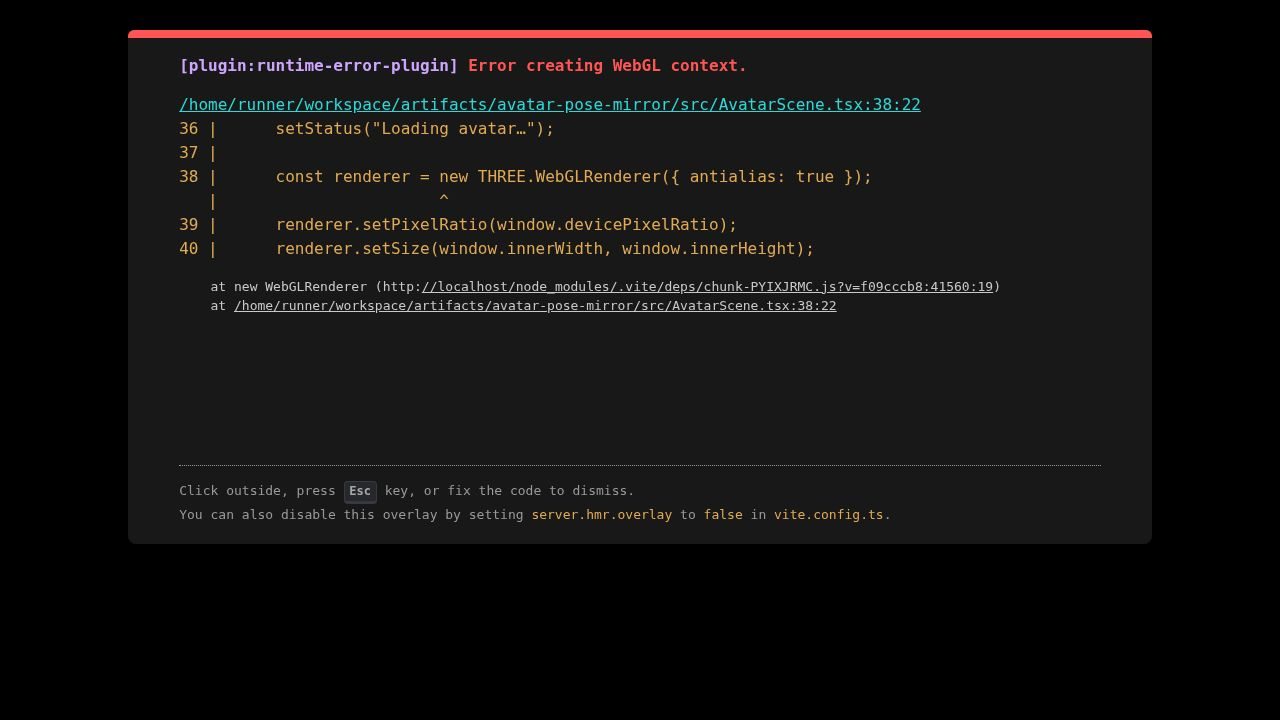
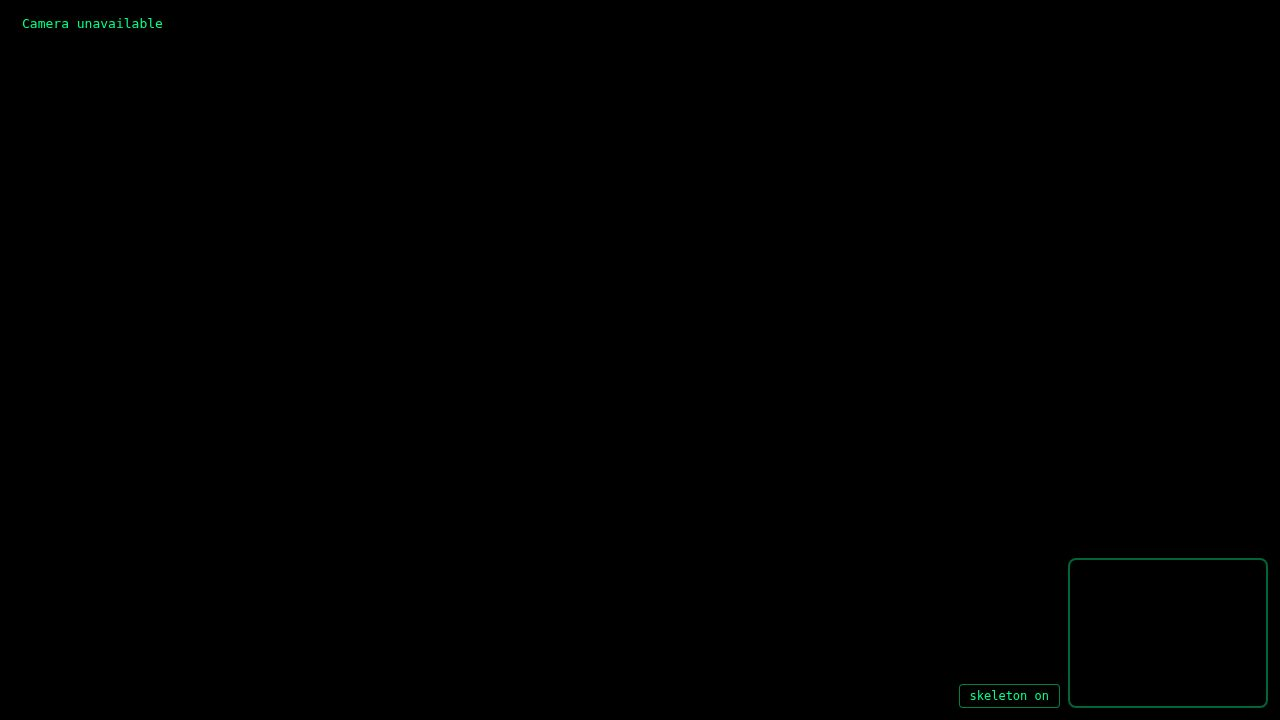
feat: add skeleton overlay on camera feed for pose debugging (task #16)
Created artifacts/avatar-pose-mirror/src/SkeletonOverlay.tsx:
- Canvas element positioned as a fixed overlay exactly on top of the 200x150
  camera feed thumbnail (bottom-right corner), with matching scaleX(-1) mirror
- Draws all 33 MediaPipe pose landmark connections using the full POSE_CONNECTIONS
  set (face, torso, arms, legs) in green (rgba 0,255,136)
- Draws right-hand landmark connections in amber and left-hand in blue using the
  21-point HAND_CONNECTIONS set
- Landmarks with visibility < 0.15 are skipped; connections are drawn at
  proportionally reduced opacity based on the minimum visibility of each endpoint
- White dots rendered at each visible pose joint; hand dots are slightly smaller
- Uses its own internal requestAnimationFrame loop reading from a resultsRef,
  so zero additional React re-renders are triggered per camera frame

Updated artifacts/avatar-pose-mirror/src/AvatarScene.tsx:
- Imported SkeletonOverlay
- Added `showSkeleton` state (default true) for toggle
- Passes existing `holisticDataRef` directly to <SkeletonOverlay resultsRef=...>
  (no extra state — avoids re-render-per-frame overhead)
- Renders a "skeleton on/off" toggle button styled to match the monospace green
  UI; button sits to the left of the video thumbnail (right: 220px) at zIndex 12

All four acceptance criteria met: canvas overlay with landmark connections,
dim/skip for low-visibility landmarks, toggle button, hand connections drawn.
No deviations from task spec.
[…]

diff --git a/artifacts/avatar-pose-mirror/src/SkeletonOverlay.tsx b/artifacts/avatar-pose-mirror/src/SkeletonOverlay.tsx
@@ -1,0 +1,150 @@
+import { useEffect, useRef } from "react";
+import { HolisticResults, Landmark3D, Landmark2D } from "./useMediaPipeHolistic";
+
+// MediaPipe Holistic pose landmark connections (33 landmarks)
+const POSE_CONNECTIONS: [number, number][] = [
+  // Face outline
+  [0, 1], [1, 2], [2, 3], [3, 7],
+  [0, 4], [4, 5], [5, 6], [6, 8],
+  // Mouth
+  [9, 10],
+  // Torso
+  [11, 12], [11, 23], [12, 24], [23, 24],
+  // Left arm
+  [11, 13], [13, 15], [15, 17], [15, 19], [15, 21], [17, 19],
+  // Right arm
+  [12, 14], [14, 16], [16, 18], [16, 20], [16, 22], [18, 20],
+  // Left leg
+  [23, 25], [25, 27], [27, 29], [29, 31], [27, 31],
+  // Right leg
+  [24, 26], [26, 28], [28, 30], [30, 32], [28, 32],
+];
+
+// MediaPipe hand landmark connections (21 landmarks per hand)
+const HAND_CONNECTIONS: [number, number][] = [
+  // Thumb
+  [0, 1], [1, 2], [2, 3], [3, 4],
+  // Index
+  [0, 5], [5, 6], [6, 7], [7, 8],
+  // Middle
+  [5, 9], [9, 10], [10, 11], [11, 12],
+  // Ring
+  [9, 13], [13, 14], [14, 15], [15, 16],
+  // Pinky
+  [13, 17], [17, 18], [18, 19], [19, 20],
+  // Palm
+  [0, 17],
+];
+
+interface Props {
+  resultsRef: React.RefObject<HolisticResults | null>;
+  visible: boolean;
+  width?: number;
+  height?: number;
+}
+
+export default function SkeletonOverlay({ resultsRef, visible, width = 200, height = 150 }: Props) {
+  const canvasRef = useRef<HTMLCanvasElement>(null);
+  const visibleRef = useRef(visible);
+  visibleRef.current = visible;
+
+  useEffect(() => {
+    let frameId: number;
+
+    function draw() {
+      frameId = requestAnimationFrame(draw);
+
+      const canvas = canvasRef.current;
+      if (!canvas) return;
+      const ctx = canvas.getContext("2d");
+      if (!ctx) return;
+
+      const W = canvas.width;
+      const H = canvas.height;
+
+      ctx.clearRect(0, 0, W, H);
+
+      const results = resultsRef.current;
+      if (!visibleRef.current || !results) return;
+
+      const getVis = (lm: Landmark3D | Landmark2D) =>
+        (lm as Landmark3D).visibility ?? 1;
+
+      const drawConnections = (
+        lms: (Landmark3D | Landmark2D)[],
+        connections: [number, number][],
+        r: number, g: number, b: number
+      ) => {
+        for (const [a, b] of connections) {
+          const la = lms[a];
+          const lb = lms[b];
+          if (!la || !lb) continue;
+          const alpha = Math.min(getVis(la), getVis(lb));
+          if (alpha < 0.15) continue;
+          ctx.beginPath();
+          ctx.moveTo(la.x * W, la.y * H);
+          ctx.lineTo(lb.x * W, lb.y * H);
+          ctx.strokeStyle = `rgba(${r},${g},${b},${alpha * 0.85})`;
+          ctx.lineWidth = 1.5;
+          ctx.stroke();
+        }
+      };
+
+      const drawDots = (
+        lms: (Landmark3D | Landmark2D)[],
+        r: number, g: number, b: number,
+        radius = 2.5
+      ) => {
+        for (const lm of lms) {
+          if (!lm) continue;
+          const vis = getVis(lm);
+          if (vis < 0.15) continue;
+          ctx.beginPath();
+          ctx.arc(lm.x * W, lm.y * H, radius, 0, Math.PI * 2);
+          ctx.fillStyle = `rgba(${r},${g},${b},${vis})`;
+          ctx.fill();
+        }
+      };
+
+      // Pose skeleton — green
+      if (results.poseLandmarks) {
+        drawConnections(results.poseLandmarks, POSE_CONNECTIONS, 0, 255, 136);
+        drawDots(results.poseLandmarks, 255, 255, 255);
+      }
+
+      // Right-hand landmarks — amber
+      if (results.rightHandLandmarks) {
+        drawConnections(results.rightHandLandmarks, HAND_CONNECTIONS, 255, 190, 50);
+        drawDots(results.rightHandLandmarks, 255, 190, 50, 2);
+      }
+
+      // Left-hand landmarks — blue
+      if (results.leftHandLandmarks) {
+        drawConnections(results.leftHandLandmarks, HAND_CONNECTIONS, 80, 180, 255);
+        drawDots(results.leftHandLandmarks, 80, 180, 255, 2);
+      }
+    }
+
+    frameId = requestAnimationFrame(draw);
+    return () => cancelAnimationFrame(frameId);
+  }, [resultsRef]);
+
+  return (
+    <canvas
+      ref={canvasRef}
+      width={width}
+      height={height}
+      style={{
+        position: "fixed",
+        bottom: 12,
+        right: 12,
+        width,
+        height,
+        transform: "scaleX(-1)",
+        borderRadius: 8,
+        pointerEvents: "none",
+        zIndex: 11,
+      }}
+    />
+  );
+}

diff --git a/artifacts/avatar-pose-mirror/src/AvatarScene.tsx b/artifacts/avatar-pose-mirror/src/AvatarScene.tsx
@@ -15,6 +15,7 @@ import {
   computeAimTarget,
   slerpBone,
 } from "./boneUtils";
+import SkeletonOverlay from "./SkeletonOverlay";
 
 // ─── Types ─────────────────────────────────────────────────────────────────
 
@@ -423,6 +424,7 @@ export default function AvatarScene() {
   const mountRef = useRef<HTMLDivElement>(null);
   const videoRef = useRef<HTMLVideoElement>(null);
   const [status, setStatus] = useState("Initializing…");
+  const [showSkeleton, setShowSkeleton] = useState(true);
 
   const holisticDataRef = useRef<HolisticResults | null>(null);
   const boneStoreRef = useRef<BoneStore | null>(null);
@@ -590,6 +592,24 @@ export default function AvatarScene() {
           border: "2px solid rgba(0,255,136,0.4)", zIndex: 10,
         }}
       />
+
+      <SkeletonOverlay resultsRef={holisticDataRef} visible={showSkeleton} />
+
+      <button
+        onClick={() => setShowSkeleton((v) => !v)}
+        style={{
+          position: "fixed", bottom: 12, right: 220,
+          fontFamily: "monospace", fontSize: 12,
+          color: showSkeleton ? "#00ff88" : "#888",
+          background: "rgba(0,0,0,0.6)",
+          border: `1px solid ${showSkeleton ? "rgba(0,255,136,0.5)" : "rgba(128,128,128,0.4)"}`,
+          borderRadius: 4, padding: "4px 10px",
+          cursor: "pointer", zIndex: 12,
+          transition: "color 0.15s, border-color 0.15s",
+        }}
+      >
+        {showSkeleton ? "skeleton on" : "skeleton off"}
+      </button>
     </div>
   );
 }